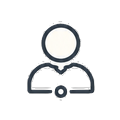
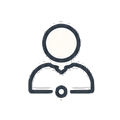
feat(nav): the plans tab gets a real off state, from Faith's two-state artwork
The previous icon had one drawing doing both jobs: full colour whether selected
or not, on a plate I composited myself. It worked, but it made the plans tab the
only one that never went quiet, and the plate was mine rather than the artist's.

Faith sent both states in one sheet, ink linework on the left and full colour on
its own plate on the right, which is exactly the shape the painted set uses. So
this splits rather than composites, and the plate-drawing code is gone.

MY FIRST CUT MADE IT THE SMALL ONE, AND ONLY THE RENDERED ROW SHOWED IT. I set
the plate at 80% of the tile from a 10% inset I had measured off the OLD 90px
files. Putting the six side by side at true 3x, the plans plate was visibly
smaller than its neighbours. Measuring the set again at 120px gave the real
numbers: off states run 62% to 75% of the tile, on states 92% to 100%. Recut at
69% and 95%, it sits in the row as a sibling.

That is twice now that rendering the row has caught something reading the code
never would: first a plate border that should not have existed, now a plate a
sixth too small. It is three lines of PIL and it should happen every time this
artwork changes.

The off state is the actual win. The other five are ink until you select them, so
the bar had one tab permanently shouting. Now it is quiet like the rest and
lights up when you are on it, which is what a selected state is for.

Source saved as plans-states.png beside the other ten, and export-nav-icons.py
[…]

diff --git a/mobile/scripts/export-nav-icons.py b/mobile/scripts/export-nav-icons.py
@@ -22,6 +22,9 @@ So each icon is trimmed to its ink, rescaled so the ink occupies the same
 fraction of the new canvas as it does of the old one, and re-centred where it
 already sat. The set looks identical. It is simply no longer the limit.
 
+`plans` is the exception, because it has no previous export to preserve: it is
+framed against the MEASURED average of the other five instead.
+
 Run:  python3 mobile/scripts/export-nav-icons.py [size]
       size defaults to 40 (points), producing 40/80/120px.
 """
@@ -35,16 +38,20 @@ REPO = MOBILE.parent
 SOURCE = REPO / "frontend" / "assets-source" / "nav"
 OUT = MOBILE / "assets" / "nav"
 
-# `plans` is Faith's mascot and came in at 1254px rather than 512, so it is
-# framed by the rule that produced it rather than by a previous export.
 PAINTED = ["learn", "practice", "live", "community", "profile"]
-MASCOT_TILE_FRACTION = 0.86
 
-# Measured off community-on@3x rather than guessed: 9px inset and a corner curve
-# running y=9 to 25 on a 90px canvas, over a flat fill with NO outline. A gold
-# border was the first attempt and it stood out against the other five the moment
-# the row was rendered side by side.
-PLATE_INSET, PLATE_RADIUS, PLATE_FILL = 0.10, 0.18, (255, 246, 210, 255)
+# `plans` arrives as one image holding BOTH states side by side: ink linework on
+# the left, full colour on its own plate on the right. That is the same shape as
+# the painted set, so it needs splitting rather than compositing. An earlier
+# version of this script drew the plate itself, because the first mascot Faith
+# sent had only one state; it does not have to any more.
+PLANS_STATES = "plans-states.png"
+
+# Measured across the five painted icons at 120px rather than assumed: their off
+# states run 62% to 75% of the tile and their on states 92% to 100%. Cutting the
+# plans plate at the 80% I had read off the OLD 90px files made it visibly the
+# small one in a rendered row.
+OFF_FRACTION, ON_FRACTION = 0.69, 0.95
 
 
 def ink_box(img: Image.Image):
@@ -74,15 +81,22 @@ def reframe(source: Image.Image, reference: Image.Image, size: int) -> Image.Ima
     return out
 
 
-def plate(size: int) -> Image.Image:
-    from PIL import ImageDraw
+def solid_box(img: Image.Image, threshold: int = 120):
+    """The ink, ignoring the faint halo a generated PNG carries around its edge."""
+    box = img.split()[3].point(lambda v: 255 if v >= threshold else 0).getbbox()
+    if box is None:
+        raise SystemExit("an icon state has no visible pixels at all")
+    return box
 
-    img = Image.new("RGBA", (size, size), (0, 0, 0, 0))
-    i = round(size * PLATE_INSET)
-    ImageDraw.Draw(img).rounded_rectangle(
-        [i, i, size - 1 - i, size - 1 - i], radius=round(size * PLATE_RADIUS), fill=PLATE_FILL
-    )
-    return img
+
+def fit(ink: Image.Image, size: int, fraction: float) -> Image.Image:
+    """Centre `ink` on a square tile, at `fraction` of its longest side."""
+    box = round(size * fraction)
+    scale = min(box / ink.width, box / ink.height)
+    art = ink.resize((max(1, round(ink.width * scale)), max(1, round(ink.height * scale))), Image.LANCZOS)
+    tile = Image.new("RGBA", (size, size), (0, 0, 0, 0))
+    tile.paste(art, ((size - art.width) // 2, (size - art.height) // 2), art)
+    return tile
 
 
 def main() -> None:
@@ -97,20 +111,16 @@ def main() -> None:
                 reframe(src, ref, px).save(OUT / f"{name}-{state}{suffix}.png")
         print(f"    {name}")
 
-    mascot = Image.open(SOURCE / "plans-source.png").convert("RGBA")
-    ink = mascot.crop(ink_box(mascot))
-    side = max(ink.size)
-    square = Image.new("RGBA", (side, side), (0, 0, 0, 0))
-    square.paste(ink, ((side - ink.width) // 2, (side - ink.height) // 2))
-    for suffix, px in (("", size), ("@2x", size * 2), ("@3x", size * 3)):
-        art = square.resize((round(px * MASCOT_TILE_FRACTION),) * 2, Image.LANCZOS)
-        at = ((px - art.width) // 2, (px - art.height) // 2)
-        off = Image.new("RGBA", (px, px), (0, 0, 0, 0))
-        off.paste(art, at, art)
-        off.save(OUT / f"plans-off{suffix}.png")
-        on = plate(px)
-        on.paste(art, at, art)
-        on.save(OUT / f"plans-on{suffix}.png")
+    sheet = Image.open(SOURCE / PLANS_STATES).convert("RGBA")
+    half = sheet.width // 2
+    states = {
+        "off": sheet.crop((0, 0, half, sheet.height)),
+        "on": sheet.crop((half, 0, sheet.width, sheet.height)),
+    }
+    for state, fraction in (("off", OFF_FRACTION), ("on", ON_FRACTION)):
+        ink = states[state].crop(solid_box(states[state]))
+        for suffix, px in (("", size), ("@2x", size * 2), ("@3x", size * 3)):
+            fit(ink, px, fraction).save(OUT / f"plans-{state}{suffix}.png")
     print("    plans")
 
     print(f"\n  Set ICON in mobile/src/components/TabBar.tsx to {size}.")
